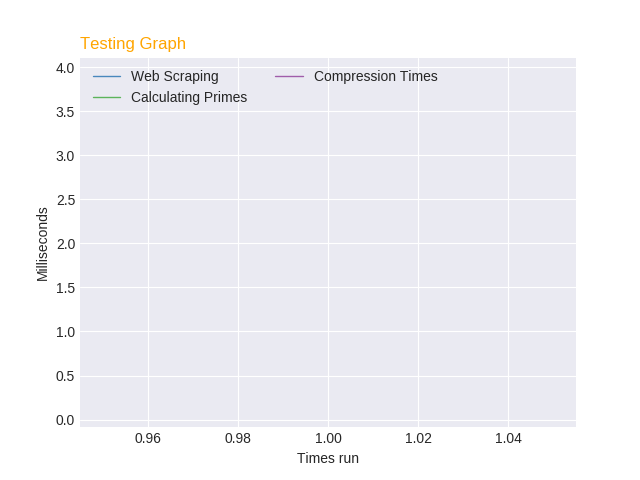
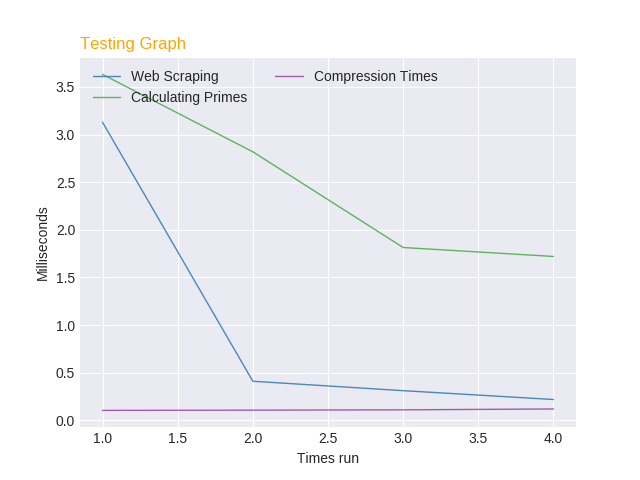
graphing kinda works

diff --git a/graphs.py b/graphs.py
@@ -6,7 +6,6 @@ import webScraping
 import calculatePrime
 import compression
 import matplotlib
-matplotlib.use("AGG")
 
 
 def lineGraph():
@@ -20,7 +19,7 @@ def lineGraph():
     #compressionTimes = [1.0769598484039307, 1.1976118087768555, 1.461094617843628, 1.6775343418121338]
 
     # Make a data frame
-    df = pd.DataFrame({'Milliseconds': range(1, 2), 'Web Scraping': webScrapingTimes,
+    df = pd.DataFrame({'Milliseconds': range(1, 5), 'Web Scraping': webScrapingTimes,
                        'Calculating Primes': calculatePrimeTimes, 'Compression Times': compressionTimes})
 
     plt.style.use('seaborn-darkgrid')
